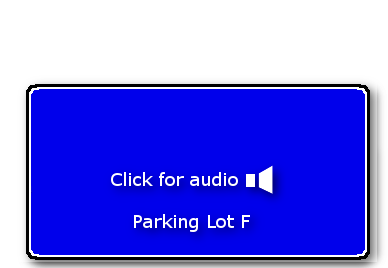
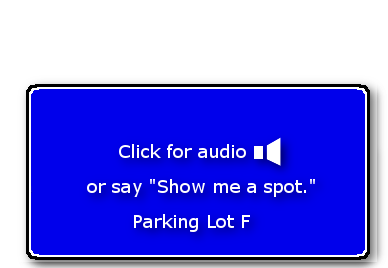
Voice Recognition
added another lot and voice recognition

Changed region(s): [[0.2165, 0.5075, 0.8351, 0.7463]]

diff --git a/WebApp/SeeSpotPark/css/style.css b/WebApp/SeeSpotPark/css/style.css
@@ -1,33 +1,37 @@
 html{
 	font-family:Arial, Helvetica, sans-serif;
+	color:#fff;
+}
+body{
+	text-align:center;
 }
 .header{
 	width:100%;
-	text-align:center;
 	background-image:url("../images/off_logo.png");
 	background-position-x:center;
 	background-repeat:no-repeat;
 	background-size:contain;
-	min-height:10em;
+	min-height:9em;
 }
 .main_body{
 	position:relative;
-	text-align:center;
 }
 .footer{
-	text-align:center;
 	width:100%;
 	position:static;
 	bottom:5px;
+	color:#000;
 }
 .button{
 	margin:10px;
+}
+.instructions{
+	color:#000;
 }
  #map {
     height: 400px;
     width: 60%;
 	margin-left:20%;
-	color:#fff;
 	text-shadow:1px 1px 2px #000;
 	border-style:solid;
 	border-color:#000;

diff --git a/WebApp/SeeSpotPark/index.php b/WebApp/SeeSpotPark/index.php
@@ -1,5 +1,6 @@
 <?php
 $num = rand(0,10);
+$num2 = rand(0,10);
 if($num==0){
 	$bgColor = "https://thomaswurdinger.com/SeeSpotPark/images/marker_background_red.png";
 }else{
@@ -11,6 +12,17 @@ if($num==1){
 }else{
 	$alert = $num . " spots open!";
 	$script = "There are " . $alert . " in parking lot, F";
+}if($num2==0){
+	$bgColor2 = "https://thomaswurdinger.com/SeeSpotPark/images/lot_7_red.png";
+}else{
+	$bgColor2 = "https://thomaswurdinger.com/SeeSpotPark/images/lot_7.png";
+}
+if($num2==1){
+	$alert2 = $num2 . " spot open!";
+	$script2 = "There is " . $alert2 . " in parking lot, 7";
+}else{
+	$alert2 = $num2 . " spots open!";
+	$script2 = "There are " . $alert2 . " in parking lot, 7";
 }
 ?>
 <!DOCTYPE html>
@@ -23,19 +35,41 @@ if($num==1){
 <script src='https://code.responsivevoice.org/responsivevoice.js'></script>
 <title>See. Spot. Park.</title>
 </head>
-<body onload='responsiveVoice.speak("<?php print $script; ?>","US English Female");' >
+<body>
 <header class="header" >
 </header>
 <div class="main_body" >
 	<div id="map"></div>
-	<input class='button' onclick='responsiveVoice.speak("<?php print $script; ?>","US English Female");' type='button' value='🔊 Play' />
 </div>
+<script src="//cdnjs.cloudflare.com/ajax/libs/annyang/2.6.0/annyang.min.js"></script>
+<script>
+if (annyang) {
+  // Let's define our first command. First the text we expect, and then the function it should call
+  var commands = {
+    'Show me (a) spot(s)': function() {
+     responsiveVoice.speak("<?php print $script; ?>","US English Female");
+    },
+	'refresh (page)':function(){
+		window.location.href = "https://www.thomaswurdinger.com/seespotpark";
+	},
+	'thank you': function() {
+     responsiveVoice.speak("You're welcome!","US English Female");
+    }
+  };
 
+  // Add our commands to annyang
+  annyang.addCommands(commands);
 
+  // Start listening. You can call this here, or attach this call to an event, button, etc.
+  annyang.start({ autoRestart: true, continuous: true });
+}
+</script>
  <script>
       function initMap() {
-        var Parking_Lot_F = {lat: 27.526697, lng: -97.878523};
+        var Parking_Lot_F = {lat: 27.526794, lng: -97.878555};
+		var Parking_Lot_7 = {lat: 27.525182, lng: -97.878262};
 		var label = '<?php print $alert; ?>';
+		var label2 = '<?php print $alert2; ?>';
         var map = new google.maps.Map(document.getElementById('map'), {
           zoom: 19,
 		  zoomControl: false,
@@ -48,12 +82,22 @@ if($num==1){
 		  icon: icon,
 		  map: map
         });
+		var icon2 = "<?php echo $bgColor2; ?>";
+		var marker2 = new google.maps.Marker({
+          position: Parking_Lot_7,
+          label: label2,
+		  icon: icon2,
+		  map: map
+        });
 		var center;
 		function calculateCenter() {
 		  center = Parking_Lot_F;
 		}
 		google.maps.event.addDomListener(marker, 'click', function() {
 		  responsiveVoice.speak("<?php print $script; ?>","US English Female");
+		});
+		google.maps.event.addDomListener(marker2, 'click', function() {
+		  responsiveVoice.speak("<?php print $script2; ?>","US English Female");
 		});
 		google.maps.event.addDomListener(map, 'idle', function() {
 		  calculateCenter();
@@ -67,7 +111,9 @@ if($num==1){
 	 <script async defer
     src="https://maps.googleapis.com/maps/api/js?key=AIzaSyB6zNJLvNxe39Wy3Kcd8wX2mJD31aPOJdQ&callback=initMap">
     </script>
+	<div class="instructions" ></br>You can also say "Refresh" to refresh the page.</div>
 </body>
+<hr>
 <footer class="footer" >
 		&copy; See Spot Park | 2017
 </footer>
